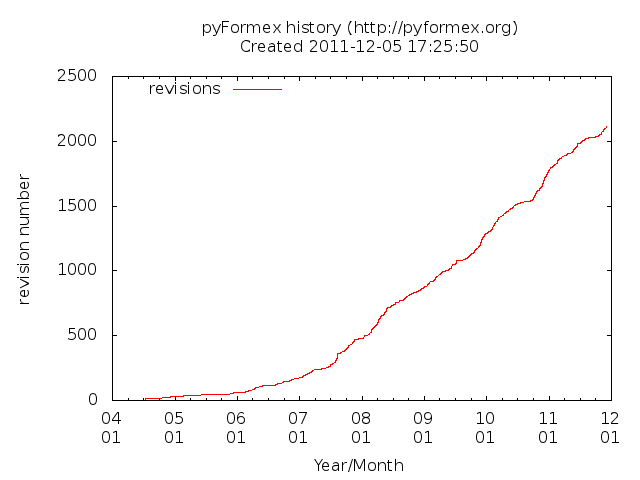
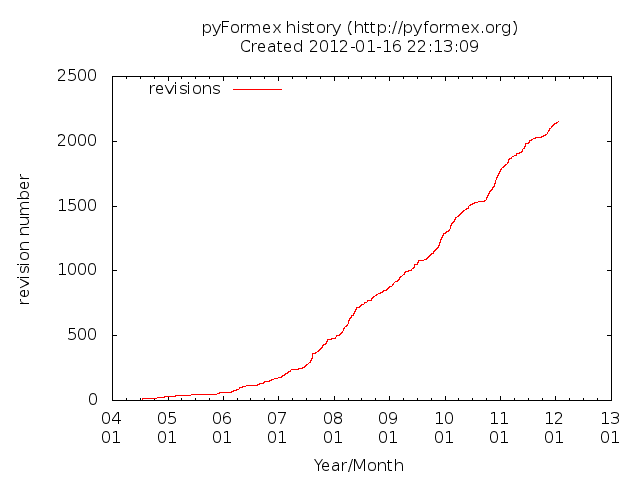
Added files to create Debian packages New statistics

diff --git a/HOWTO-dev.rst b/HOWTO-dev.rst
@@ -832,7 +832,7 @@ First, create the distribution and test it out locally: both the installation pr
    svn up
    make dist
 
-- Put the files on Savannah (see dist/HOWTO) ::
+- Put the files on Savannah::
 
    make sign
    make pubpdf
@@ -848,7 +848,7 @@ First, create the distribution and test it out locally: both the installation pr
 
 - Put the files on our local FTP server ::
 
-   make publocal
+   (NOT CORRECT) make publocal
 
 - Put the documentation on the web site ::
   
@@ -859,7 +859,7 @@ First, create the distribution and test it out locally: both the installation pr
 
 - Upload to the python package index ::
   
-   make upload  # should replace make sdist above
+   (NOT CORRECT) make upload  # should replace make sdist above
 
 - Add the release data to the database ::
    
@@ -877,5 +877,19 @@ First, create the distribution and test it out locally: both the installation pr
 
 Well, that was easy, uh? ~)
 
+
+Creating (official) Debian packages
+-----------------------------------
+
+.. note: This section needs further clarification
+
+- Needed software:
+- Needed dependencies: python-all-dev
+
+- Unpack latest relesae: _do unpack
+- Build: _do build
+- If OK, build final (signed): _do final
+- upload: dput mentors PYFVER.changes
+  
 
 .. End
